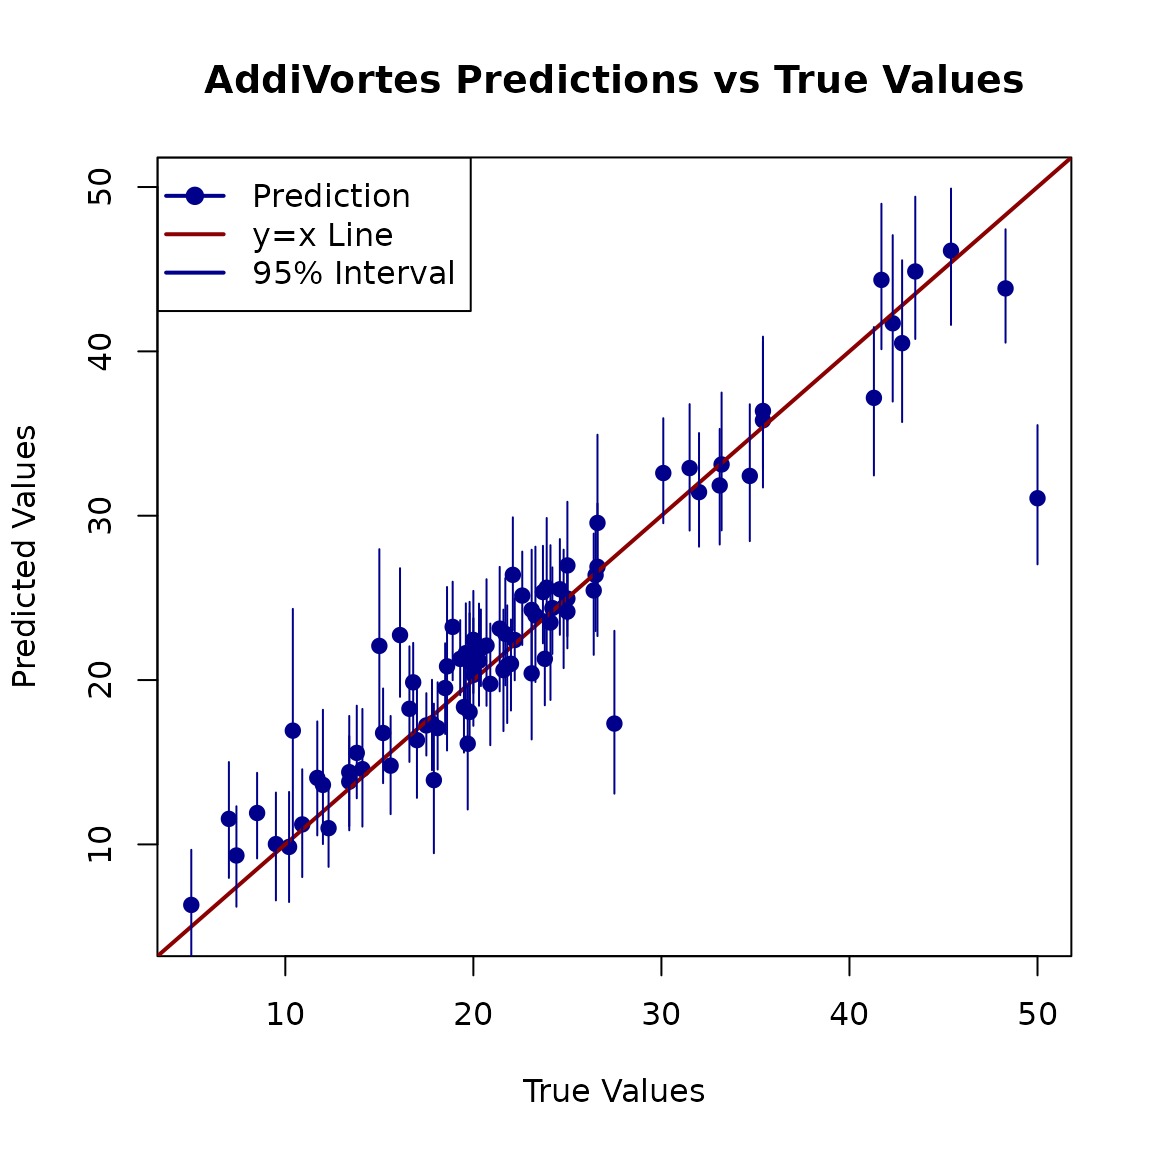
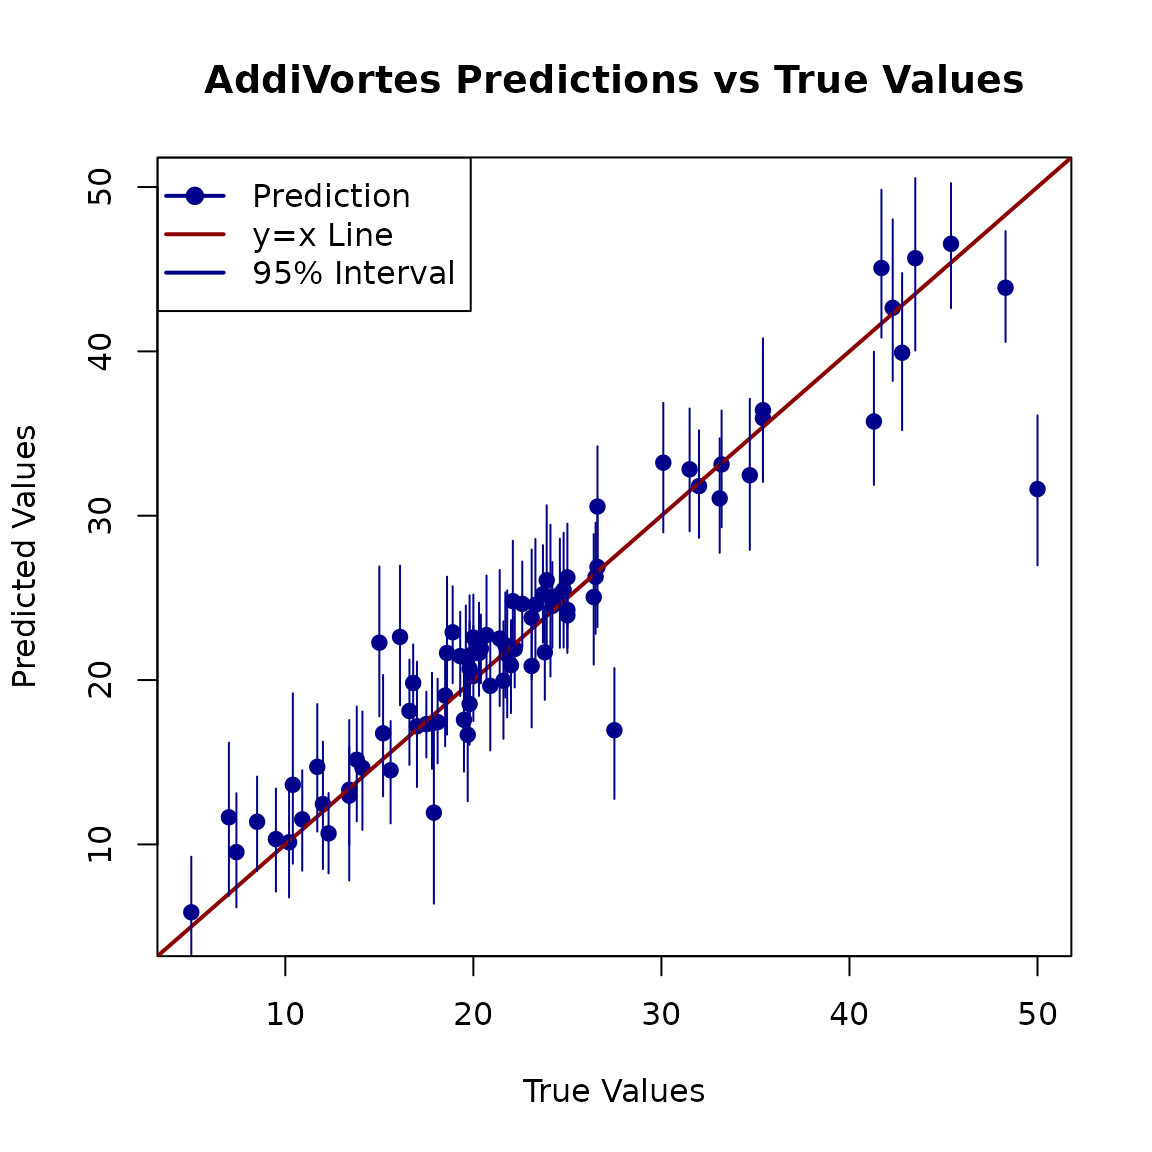
Deploying to gh-pages from @ johnpaulgosling/AddiVortes@fa9fe01f67c6c254fd5895e663da229fa9d7bd98 🚀

diff --git a/articles/introduction.html b/articles/introduction.html
@@ -20,7 +20,7 @@
 
     <a class="navbar-brand me-2" href="../index.html">AddiVortes</a>
 
-    <small class="nav-text text-muted me-auto" data-bs-toggle="tooltip" data-bs-placement="bottom" title="">0.1.15</small>
+    <small class="nav-text text-muted me-auto" data-bs-toggle="tooltip" data-bs-placement="bottom" title="">0.1.16</small>
 
 
     <button class="navbar-toggler" type="button" data-bs-toggle="collapse" data-bs-target="#navbar" aria-controls="navbar" aria-expanded="false" aria-label="Toggle navigation">
@@ -148,12 +148,12 @@ unseen test data. We will then calculate the Root Mean Squared Error
 <span><span class="co"># The 8th element of the results object might contain useful info, like variable importance</span></span>
 <span><span class="co"># For this example, we just display it</span></span>
 <span><span class="fu"><a href="https://rdrr.io/r/base/cat.html" class="external-link">cat</a></span><span class="op">(</span><span class="st">"In-Sample RMSE:"</span>, <span class="va">results</span><span class="op">$</span><span class="va">inSampleRmse</span>, <span class="st">"\n"</span><span class="op">)</span></span>
-<span><span class="co">#&gt; In-Sample RMSE: 1.204092</span></span>
+<span><span class="co">#&gt; In-Sample RMSE: 1.185242</span></span>
 <span></span>
 <span><span class="co"># Calculate the Root Mean Squared Error (RMSE)</span></span>
 <span><span class="va">rmse</span> <span class="op">&lt;-</span> <span class="fu"><a href="https://rdrr.io/r/base/MathFun.html" class="external-link">sqrt</a></span><span class="op">(</span><span class="fu"><a href="https://rdrr.io/r/base/mean.html" class="external-link">mean</a></span><span class="op">(</span><span class="op">(</span><span class="va">Y_Boston</span><span class="op">[</span><span class="va">TestSet</span><span class="op">]</span> <span class="op">-</span> <span class="va">preds</span><span class="op">)</span><span class="op">^</span><span class="fl">2</span><span class="op">)</span><span class="op">)</span></span>
 <span><span class="fu"><a href="https://rdrr.io/r/base/cat.html" class="external-link">cat</a></span><span class="op">(</span><span class="st">"Test Set RMSE:"</span>, <span class="va">rmse</span>, <span class="st">"\n"</span><span class="op">)</span></span>
-<span><span class="co">#&gt; Test Set RMSE: 3.237162</span></span></code></pre></div>
+<span><span class="co">#&gt; Test Set RMSE: 3.226166</span></span></code></pre></div>
 </div>
 <div class="section level3">
 <h3 id="visualising-the-results">5. Visualising the Results<a class="anchor" aria-label="anchor" href="#visualising-the-results"></a>

diff --git a/articles/prediction.html b/articles/prediction.html
@@ -20,7 +20,7 @@
 
     <a class="navbar-brand me-2" href="../index.html">AddiVortes</a>
 
-    <small class="nav-text text-muted me-auto" data-bs-toggle="tooltip" data-bs-placement="bottom" title="">0.1.15</small>
+    <small class="nav-text text-muted me-auto" data-bs-toggle="tooltip" data-bs-placement="bottom" title="">0.1.16</small>
 
 
     <button class="navbar-toggler" type="button" data-bs-toggle="collapse" data-bs-target="#navbar" aria-controls="navbar" aria-expanded="false" aria-label="Toggle navigation">
@@ -119,7 +119,7 @@ for a quick demonstration.</p>
 <div class="sourceCode" id="cb3"><pre class="downlit sourceCode r">
 <code class="sourceCode R"><span><span class="co"># We can check the in-sample Root Mean Squared Error</span></span>
 <span><span class="fu"><a href="https://rdrr.io/r/base/cat.html" class="external-link">cat</a></span><span class="op">(</span><span class="st">"In-sample RMSE:"</span>, <span class="va">AModel</span><span class="op">$</span><span class="va">inSampleRmse</span>, <span class="st">"\n"</span><span class="op">)</span></span>
-<span><span class="co">#&gt; In-sample RMSE: 1.045684</span></span></code></pre></div>
+<span><span class="co">#&gt; In-sample RMSE: 0.9945823</span></span></code></pre></div>
 <p>The in-sample RMSE gives us an idea of how well the model fits the
 data it was trained on. However, the true test of a model is its
 performance on new data.</p>

diff --git a/authors.html b/authors.html
@@ -7,7 +7,7 @@
 
     <a class="navbar-brand me-2" href="index.html">AddiVortes</a>
 
-    <small class="nav-text text-muted me-auto" data-bs-toggle="tooltip" data-bs-placement="bottom" title="">0.1.15</small>
+    <small class="nav-text text-muted me-auto" data-bs-toggle="tooltip" data-bs-placement="bottom" title="">0.1.16</small>
 
 
     <button class="navbar-toggler" type="button" data-bs-toggle="collapse" data-bs-target="#navbar" aria-controls="navbar" aria-expanded="false" aria-label="Toggle navigation">
@@ -54,13 +54,13 @@
 
       <p>Stone A, Gosling J (2025).
 <em>AddiVortes: (Bayesian) Additive Voronoi Tessellations</em>.
-R package version 0.1.15, <a href="https://johnpaulgosling.github.io/AddiVortes/">https://johnpaulgosling.github.io/AddiVortes/</a>.
+R package version 0.1.16, <a href="https://johnpaulgosling.github.io/AddiVortes/">https://johnpaulgosling.github.io/AddiVortes/</a>.
 </p>
       <pre>@Manual{,
   title = {AddiVortes: (Bayesian) Additive Voronoi Tessellations},
   author = {Adam Stone and John Paul Gosling},
   year = {2025},
-  note = {R package version 0.1.15},
+  note = {R package version 0.1.16},
   url = {https://johnpaulgosling.github.io/AddiVortes/},
 }</pre>
     </div>

diff --git a/reference/predict.AddiVortesFit.html b/reference/predict.AddiVortesFit.html
@@ -11,7 +11,7 @@ Root Mean Squared Error (RMSE) if true outcomes are provided."></head><body>
 
     <a class="navbar-brand me-2" href="../index.html">AddiVortes</a>
 
-    <small class="nav-text text-muted me-auto" data-bs-toggle="tooltip" data-bs-placement="bottom" title="">0.1.15</small>
+    <small class="nav-text text-muted me-auto" data-bs-toggle="tooltip" data-bs-placement="bottom" title="">0.1.16</small>
 
 
     <button class="navbar-toggler" type="button" data-bs-toggle="collapse" data-bs-target="#navbar" aria-controls="navbar" aria-expanded="false" aria-label="Toggle navigation">

diff --git a/reference/plot.AddiVortesFit.html b/reference/plot.AddiVortesFit.html
@@ -11,7 +11,7 @@ for the training set to help visualise model fit."></head><body>
 
     <a class="navbar-brand me-2" href="../index.html">AddiVortes</a>
 
-    <small class="nav-text text-muted me-auto" data-bs-toggle="tooltip" data-bs-placement="bottom" title="">0.1.15</small>
+    <small class="nav-text text-muted me-auto" data-bs-toggle="tooltip" data-bs-placement="bottom" title="">0.1.16</small>
 
 
     <button class="navbar-toggler" type="button" data-bs-toggle="collapse" data-bs-target="#navbar" aria-controls="navbar" aria-expanded="false" aria-label="Toggle navigation">

diff --git a/404.html b/404.html
@@ -20,7 +20,7 @@
 
     <a class="navbar-brand me-2" href="https://johnpaulgosling.github.io/AddiVortes/index.html">AddiVortes</a>
 
-    <small class="nav-text text-muted me-auto" data-bs-toggle="tooltip" data-bs-placement="bottom" title="">0.1.15</small>
+    <small class="nav-text text-muted me-auto" data-bs-toggle="tooltip" data-bs-placement="bottom" title="">0.1.16</small>
 
 
     <button class="navbar-toggler" type="button" data-bs-toggle="collapse" data-bs-target="#navbar" aria-controls="navbar" aria-expanded="false" aria-label="Toggle navigation">

diff --git a/reference/AddiVortes.html b/reference/AddiVortes.html
@@ -15,7 +15,7 @@ the test samples."></head><body>
 
     <a class="navbar-brand me-2" href="../index.html">AddiVortes</a>
 
-    <small class="nav-text text-muted me-auto" data-bs-toggle="tooltip" data-bs-placement="bottom" title="">0.1.15</small>
+    <small class="nav-text text-muted me-auto" data-bs-toggle="tooltip" data-bs-placement="bottom" title="">0.1.16</small>
 
 
     <button class="navbar-toggler" type="button" data-bs-toggle="collapse" data-bs-target="#navbar" aria-controls="navbar" aria-expanded="false" aria-label="Toggle navigation">

diff --git a/articles/index.html b/articles/index.html
@@ -7,7 +7,7 @@
 
     <a class="navbar-brand me-2" href="../index.html">AddiVortes</a>
 
-    <small class="nav-text text-muted me-auto" data-bs-toggle="tooltip" data-bs-placement="bottom" title="">0.1.15</small>
+    <small class="nav-text text-muted me-auto" data-bs-toggle="tooltip" data-bs-placement="bottom" title="">0.1.16</small>
 
 
     <button class="navbar-toggler" type="button" data-bs-toggle="collapse" data-bs-target="#navbar" aria-controls="navbar" aria-expanded="false" aria-label="Toggle navigation">

diff --git a/reference/index.html b/reference/index.html
@@ -7,7 +7,7 @@
 
     <a class="navbar-brand me-2" href="../index.html">AddiVortes</a>
 
-    <small class="nav-text text-muted me-auto" data-bs-toggle="tooltip" data-bs-placement="bottom" title="">0.1.15</small>
+    <small class="nav-text text-muted me-auto" data-bs-toggle="tooltip" data-bs-placement="bottom" title="">0.1.16</small>
 
 
     <button class="navbar-toggler" type="button" data-bs-toggle="collapse" data-bs-target="#navbar" aria-controls="navbar" aria-expanded="false" aria-label="Toggle navigation">

diff --git a/reference/new_AddiVortesFit.html b/reference/new_AddiVortesFit.html
@@ -7,7 +7,7 @@
 
     <a class="navbar-brand me-2" href="../index.html">AddiVortes</a>
 
-    <small class="nav-text text-muted me-auto" data-bs-toggle="tooltip" data-bs-placement="bottom" title="">0.1.15</small>
+    <small class="nav-text text-muted me-auto" data-bs-toggle="tooltip" data-bs-placement="bottom" title="">0.1.16</small>
 
 
     <button class="navbar-toggler" type="button" data-bs-toggle="collapse" data-bs-target="#navbar" aria-controls="navbar" aria-expanded="false" aria-label="Toggle navigation">

diff --git a/index.html b/index.html
@@ -22,7 +22,7 @@
 
     <a class="navbar-brand me-2" href="index.html">AddiVortes</a>
 
-    <small class="nav-text text-muted me-auto" data-bs-toggle="tooltip" data-bs-placement="bottom" title="">0.1.15</small>
+    <small class="nav-text text-muted me-auto" data-bs-toggle="tooltip" data-bs-placement="bottom" title="">0.1.16</small>
 
 
     <button class="navbar-toggler" type="button" data-bs-toggle="collapse" data-bs-target="#navbar" aria-controls="navbar" aria-expanded="false" aria-label="Toggle navigation">

diff --git a/LICENSE-text.html b/LICENSE-text.html
@@ -7,7 +7,7 @@
 
     <a class="navbar-brand me-2" href="index.html">AddiVortes</a>
 
-    <small class="nav-text text-muted me-auto" data-bs-toggle="tooltip" data-bs-placement="bottom" title="">0.1.15</small>
+    <small class="nav-text text-muted me-auto" data-bs-toggle="tooltip" data-bs-placement="bottom" title="">0.1.16</small>
 
 
     <button class="navbar-toggler" type="button" data-bs-toggle="collapse" data-bs-target="#navbar" aria-controls="navbar" aria-expanded="false" aria-label="Toggle navigation">
